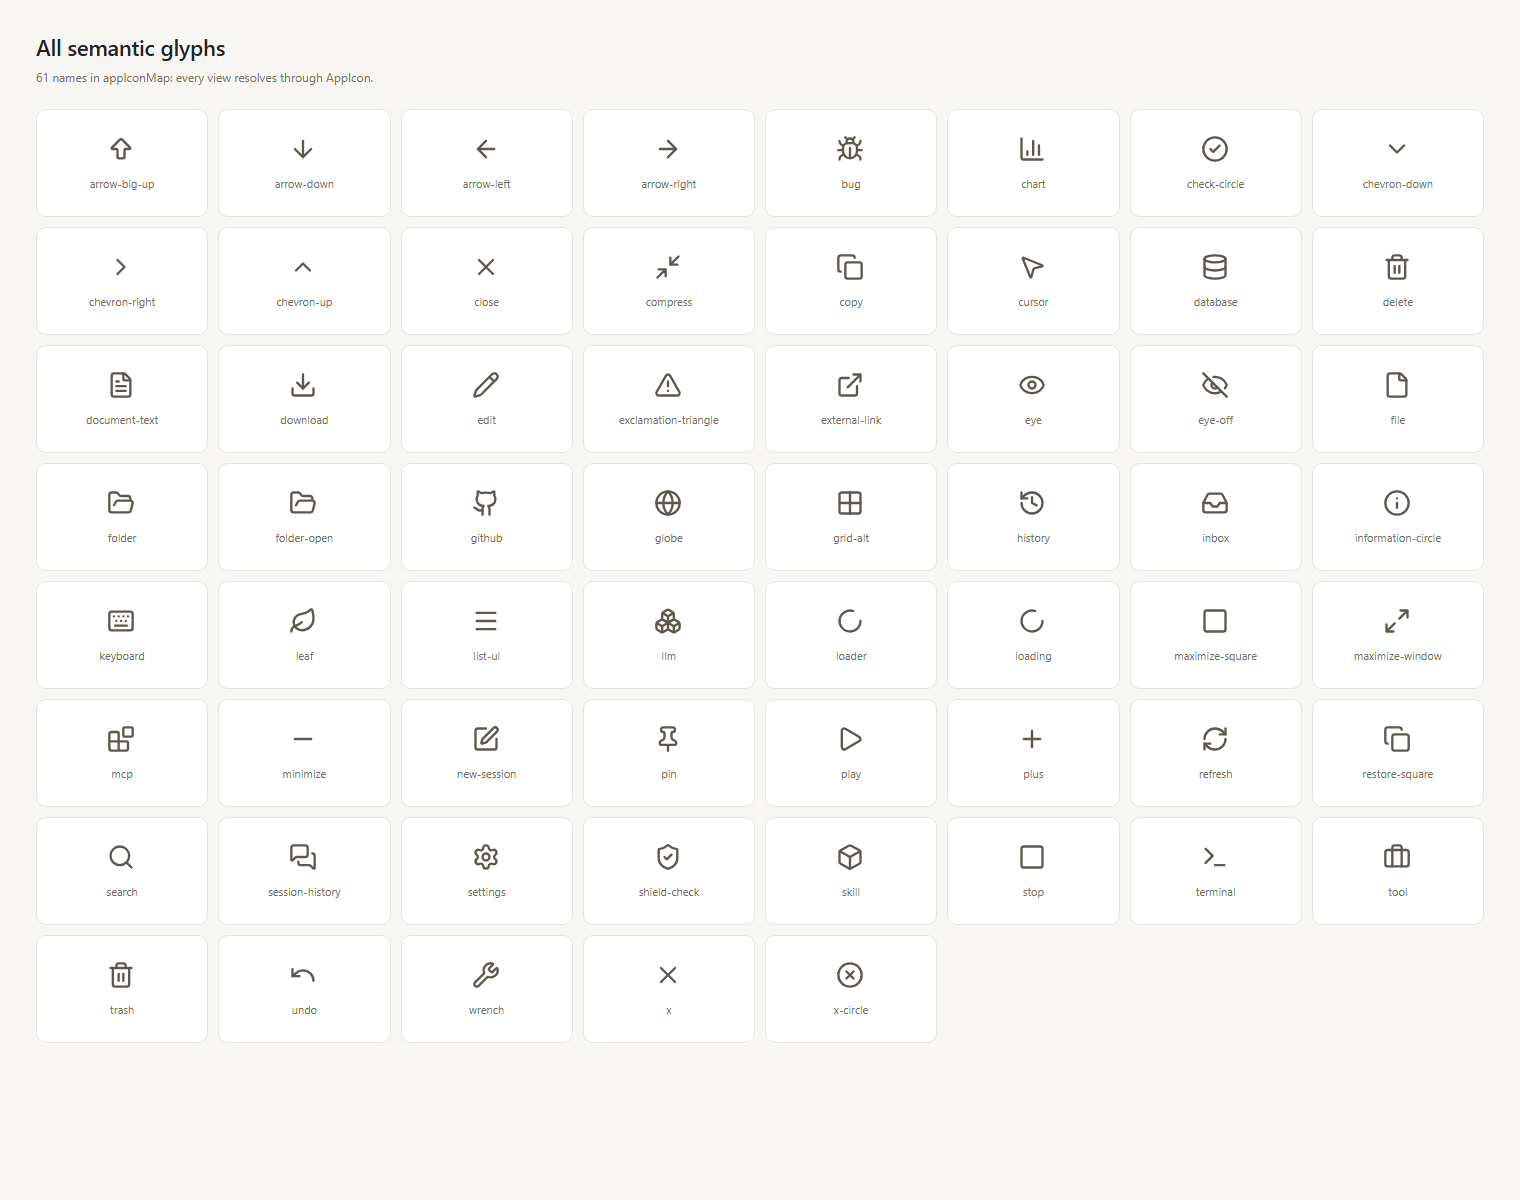
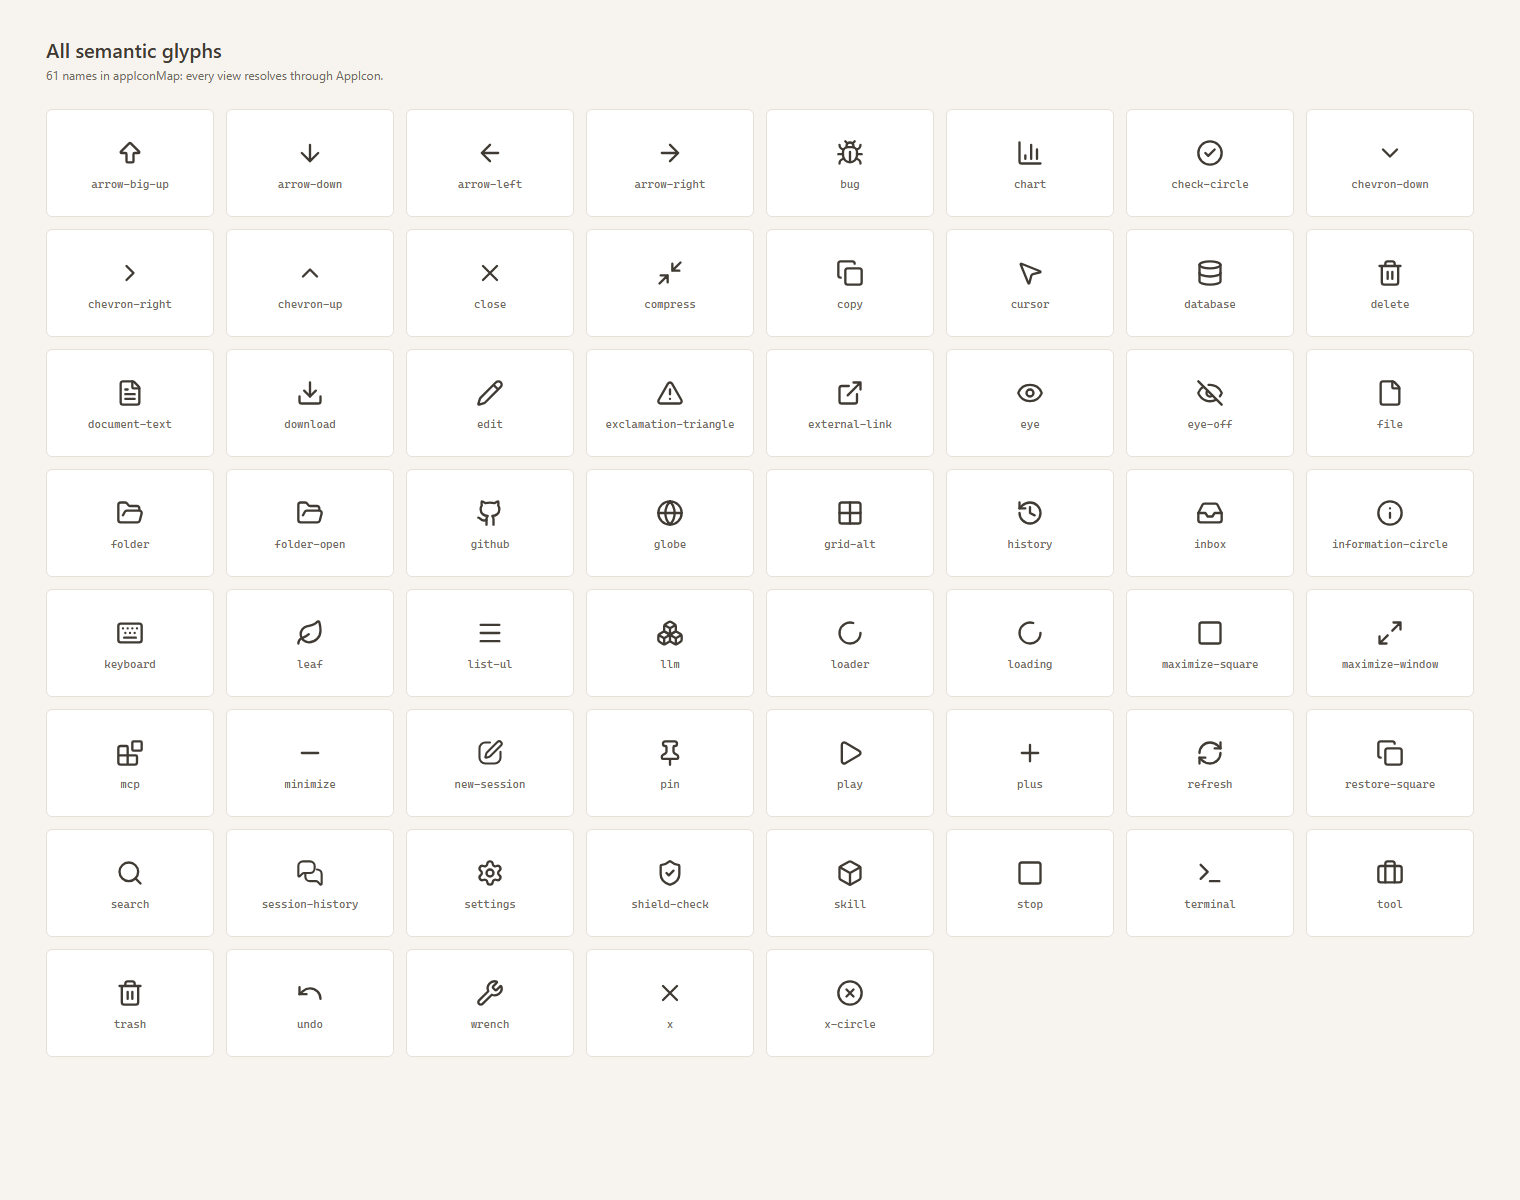
fix(desktop): soften the conversation toolbar glyphs
Lucide's square-pen and messages-square use a 2px corner radius on the
24px grid, which reads as a sharp box at the 14px toolbar size. The two
toolbar names now map to Lucide-derived paths with a 5px square radius
and 4px bubble radius, so the glyphs sit softly beside the copy and
regenerate actions without changing their meaning.

Running-app evidence was regenerated from the built Tauri app.

diff --git a/apps/desktop/src/components/appIconMap.ts b/apps/desktop/src/components/appIconMap.ts
@@ -1,3 +1,5 @@
+import RoundedMessagesSquareIcon from '@components/icons/RoundedMessagesSquareIcon.vue';
+import RoundedSquarePenIcon from '@components/icons/RoundedSquarePenIcon.vue';
 import type { Component } from 'vue';
 
 import IconArrowBigUp from '~icons/lucide/arrow-big-up';
@@ -35,7 +37,6 @@ import IconLeaf from '~icons/lucide/leaf';
 import IconLoader from '~icons/lucide/loader-circle';
 import IconMaximizeWindow from '~icons/lucide/maximize-2';
 import IconMenu from '~icons/lucide/menu';
-import IconMessagesSquare from '~icons/lucide/messages-square';
 import IconCompress from '~icons/lucide/minimize-2';
 import IconMinus from '~icons/lucide/minus';
 import IconPointer from '~icons/lucide/mouse-pointer-2';
@@ -48,7 +49,6 @@ import IconSearch from '~icons/lucide/search';
 import IconCog from '~icons/lucide/settings';
 import IconShieldCheck from '~icons/lucide/shield-check';
 import IconSquare from '~icons/lucide/square';
-import IconSquarePen from '~icons/lucide/square-pen';
 import IconTerminal from '~icons/lucide/terminal';
 import IconTrash from '~icons/lucide/trash-2';
 import IconError from '~icons/lucide/triangle-alert';
@@ -87,7 +87,7 @@ export const appIconMap = {
     history: IconHistory,
     inbox: IconInbox,
     'list-ul': IconMenu,
-    'session-history': IconMessagesSquare,
+    'session-history': RoundedMessagesSquareIcon,
     'maximize-square': IconSquare,
     'maximize-window': IconMaximizeWindow,
     'restore-square': IconCopy,
@@ -100,7 +100,7 @@ export const appIconMap = {
     'external-link': IconLinkExternal,
     mcp: IconBlocks,
     minimize: IconMinus,
-    'new-session': IconSquarePen,
+    'new-session': RoundedSquarePenIcon,
     pin: IconPin,
     play: IconPlay,
     plus: IconPlus,

diff --git a/apps/desktop/src/components/icons/RoundedMessagesSquareIcon.vue b/apps/desktop/src/components/icons/RoundedMessagesSquareIcon.vue
@@ -1,0 +1,17 @@
+<template>
+    <svg
+        xmlns="http://www.w3.org/2000/svg"
+        viewBox="0 0 24 24"
+        fill="none"
+        stroke="currentColor"
+        stroke-linecap="round"
+        stroke-linejoin="round"
+    >
+        <path
+            d="M16 8a4 4 0 0 1-4 4H6.828a2 2 0 0 0-1.414.586l-2.202 2.202A.71.71 0 0 1 2 14.286V6a4 4 0 0 1 4-4h6a4 4 0 0 1 4 4z"
+        />
+        <path
+            d="M18 9a4 4 0 0 1 4 4v8.286a.71.71 0 0 1-1.212.502l-2.202-2.202A2 2 0 0 0 17.172 19H12a4 4 0 0 1-4-4v-2"
+        />
+    </svg>
+</template>

diff --git a/apps/desktop/src/components/icons/RoundedSquarePenIcon.vue b/apps/desktop/src/components/icons/RoundedSquarePenIcon.vue
@@ -1,0 +1,15 @@
+<template>
+    <svg
+        xmlns="http://www.w3.org/2000/svg"
+        viewBox="0 0 24 24"
+        fill="none"
+        stroke="currentColor"
+        stroke-linecap="round"
+        stroke-linejoin="round"
+    >
+        <path d="M12 3H8a5 5 0 0 0-5 5v8a5 5 0 0 0 5 5h8a5 5 0 0 0 5-5v-5" />
+        <path
+            d="M18.375 2.625a1 1 0 0 1 3 3l-9.013 9.014a2 2 0 0 1-.853.505l-2.873.84a.5.5 0 0 1-.62-.62l.84-2.873a2 2 0 0 1 .506-.852z"
+        />
+    </svg>
+</template>

diff --git a/docs/agents/design-system.md b/docs/agents/design-system.md
@@ -64,7 +64,8 @@ an icon package directly.
 
 - **Set:** Lucide (`@iconify-json/lucide`). Change the single `--app-icon-stroke`
   custom property in `styles/tailwind.css` to adjust the product's `1.8` stroke
-  weight globally.
+  weight globally. The two conversation-toolbar glyphs below are Lucide paths with
+  a larger corner radius, kept local because Lucide ships only the sharper original.
 - **Adding an icon:** add the semantic name to `appIconMap`, then use it through
   `AppIcon`. Do not import `~icons/*` in a component.
 - **Window glyphs:** `maximize-square` / `restore-square` are the conventional plain
@@ -73,9 +74,11 @@ an icon package directly.
   outward arrows) for the unmaximized state and `restore-square` for restore. The
   arrows read as expanding this floating window without implying fullscreen. Do not
   use `fullscreen` or bare expand/collapse brackets for this control.
-- **Conversation controls:** `new-session` uses the square-pen glyph, and
-  `session-history` uses the overlapping-message glyph rather than a clock. `copy`
-  uses the simple overlapping-sheet glyph rather than a clipboard with an extra mark.
+- **Conversation controls:** `new-session` uses a rounded square-pen glyph, and
+  `session-history` uses a rounded overlapping-message glyph rather than a clock.
+  The larger corner radius keeps both readable and soft at 14px, where Lucide's
+  default 2px radius reads as a sharp box. `copy` uses the simple overlapping-sheet
+  glyph rather than a clipboard with an extra mark.
   Session actions sit on the left and window controls on the right; the four controls
   use separate 36px targets without an enclosing capsule, 4px between targets, and
   14px glyphs on the conversation text column. Their light chrome tone keeps them
